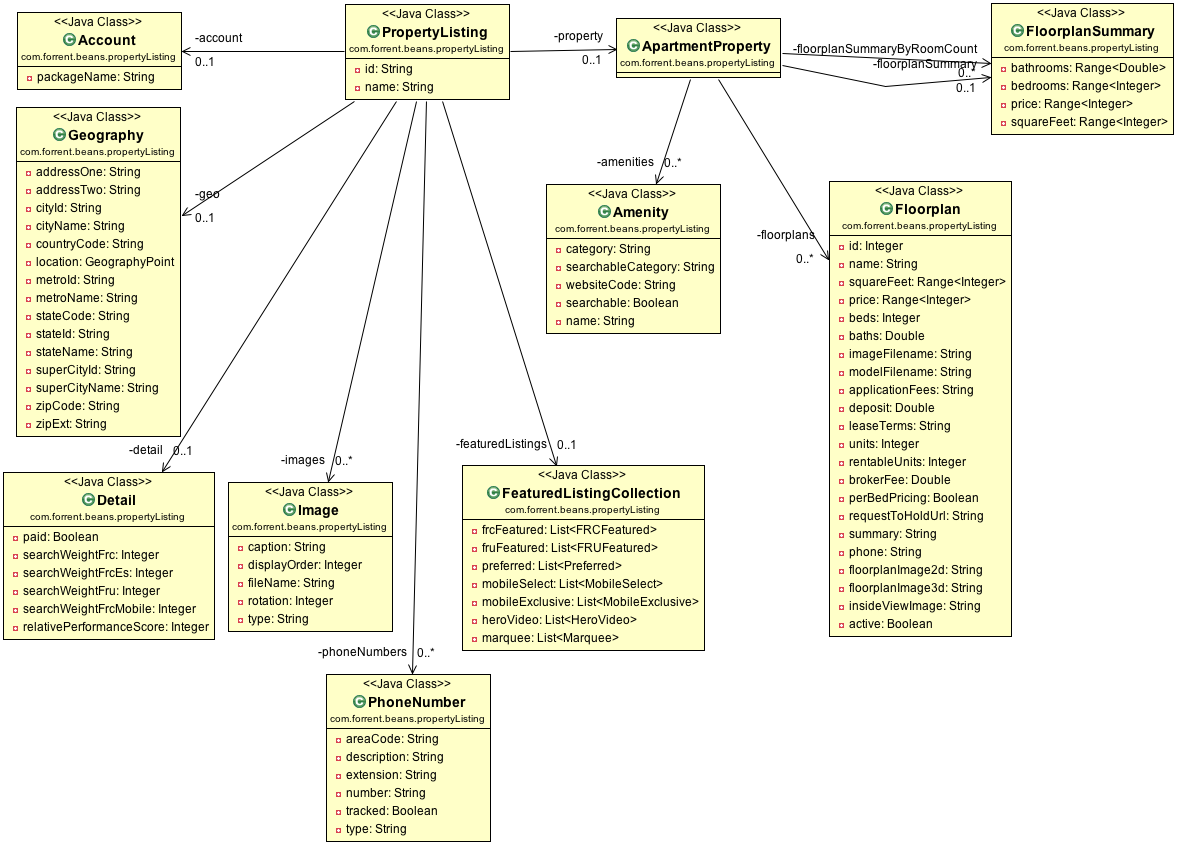
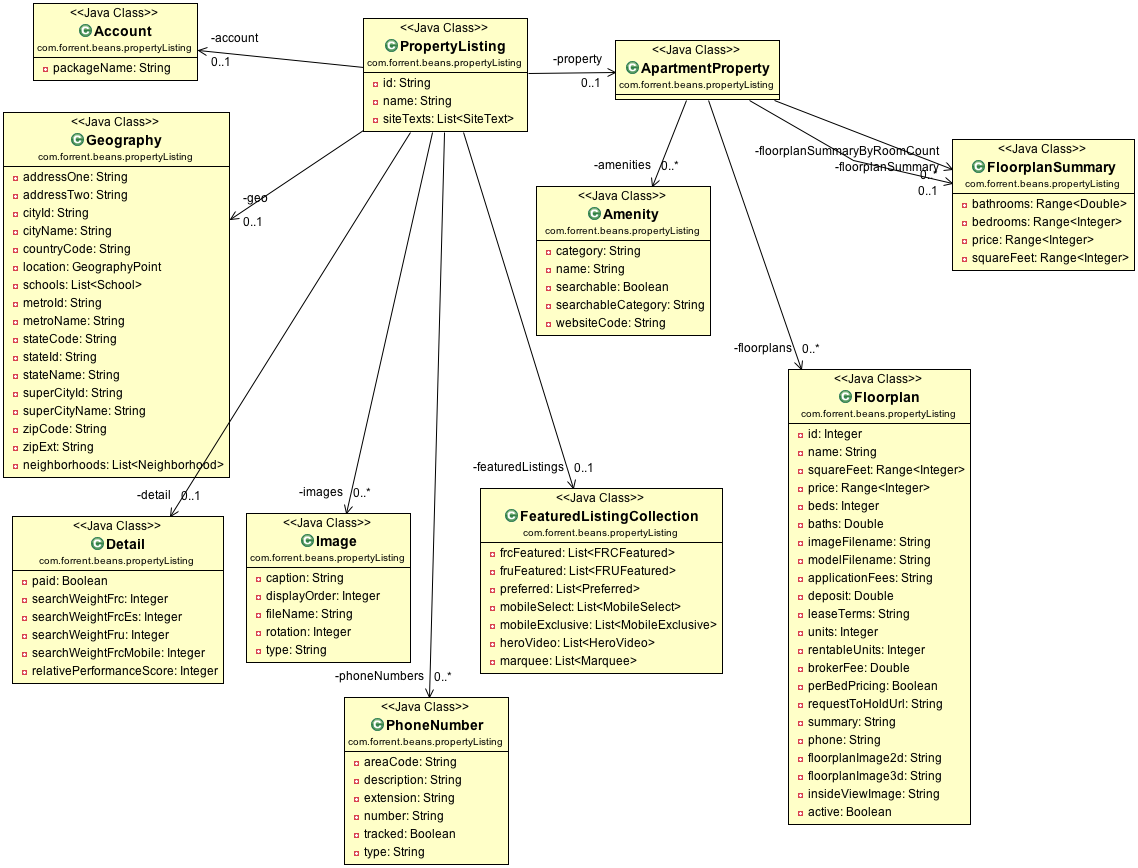
change fp summary to list

diff --git a/src/main/java/com/forrent/beans/propertyListing/Amenity.java b/src/main/java/com/forrent/beans/propertyListing/Amenity.java
@@ -3,50 +3,51 @@ package com.forrent.beans.propertyListing;
 import java.io.Serializable;
 
 @SuppressWarnings("serial")
-public class Amenity implements Serializable {
-	private String category;
-	private String searchableCategory;
-	private String websiteCode;
-	private Boolean searchable;
-	private String name;
-	
-	public String getCategory() {
-		return category;
-	}
-	
-	public void setCategory(final String category) {
-		this.category = category;
-	}
-	
-	public String getSearchableCategory() {
-		return searchableCategory;
-	}
-	
-	public void setSearchableCategory(final String searchableCategory) {
-		this.searchableCategory = searchableCategory;
-	}
-	
-	public String getWebsiteCode() {
-		return websiteCode;
-	}
-	
-	public void setWebsiteCode(final String websiteCode) {
-		this.websiteCode = websiteCode;
-	}
-	
-	public Boolean getSearchable() {
-		return searchable;
-	}
-	
-	public void setSearchable(final Boolean searchable) {
-		this.searchable = searchable;
-	}
-	
-	public String getName() {
-		return name;
-	}
-	
-	public void setName(final String name) {
-		this.name = name;
-	}
+public class Amenity implements Serializable
+{
+    private String category;
+    private String name;
+    private Boolean searchable;
+    private String searchableCategory;
+    private String websiteCode;
+
+    public String getCategory() {
+        return this.category;
+    }
+
+    public String getName() {
+        return this.name;
+    }
+
+    public Boolean getSearchable() {
+        return this.searchable;
+    }
+
+    public String getSearchableCategory() {
+        return this.searchableCategory;
+    }
+
+    public String getWebsiteCode() {
+        return this.websiteCode;
+    }
+
+    public void setCategory(final String category) {
+        this.category = category;
+    }
+
+    public void setName(final String name) {
+        this.name = name;
+    }
+
+    public void setSearchable(final Boolean searchable) {
+        this.searchable = searchable;
+    }
+
+    public void setSearchableCategory(final String searchableCategory) {
+        this.searchableCategory = searchableCategory;
+    }
+
+    public void setWebsiteCode(final String websiteCode) {
+        this.websiteCode = websiteCode;
+    }
 }

diff --git a/src/main/java/com/forrent/beans/propertyListing/ApartmentProperty.java b/src/main/java/com/forrent/beans/propertyListing/ApartmentProperty.java
@@ -2,14 +2,13 @@ package com.forrent.beans.propertyListing;
 
 import java.io.Serializable;
 import java.util.List;
-import java.util.Map;
 
 @SuppressWarnings("serial")
 public class ApartmentProperty implements Serializable
 {
     private List<Floorplan> floorplans;
     private FloorplanSummary floorplanSummary;
-    private Map<Integer, FloorplanSummary> floorplanSummaryByRoomCount;
+    private List<FloorplanSummary> floorplanSummaryByRoomCount;
     private List<Amenity> amenities;
 
     public List<Floorplan> getFloorplans() {
@@ -24,16 +23,16 @@ public class ApartmentProperty implements Serializable
         return this.floorplanSummary;
     }
 
-    public Map<Integer, FloorplanSummary> getFloorplanSummaryByRoomCount() {
+    public List<FloorplanSummary> getFloorplanSummaryByRoomCount() {
         return this.floorplanSummaryByRoomCount;
     }
-    
+
     public List<Amenity> getAmenities() {
-		return amenities;
+        return this.amenities;
     }
-    
+
     public Amenity getAmenities(final Integer index){
-    	return this.amenities.get(index);
+        return this.amenities.get(index);
     }
 
     public void setFloorplans(final List<Floorplan> floorplans) {
@@ -44,10 +43,10 @@ public class ApartmentProperty implements Serializable
         this.floorplanSummary = floorplanSummary;
     }
 
-    public void setFloorplanSummaryByRoomCount(final Map<Integer, FloorplanSummary> floorplanSummaryByRoomCount) {
+    public void setFloorplanSummaryByRoomCount(final List<FloorplanSummary> floorplanSummaryByRoomCount) {
         this.floorplanSummaryByRoomCount = floorplanSummaryByRoomCount;
     }
-    
+
 	public void setAmenities(final List<Amenity> amenities) {
 		this.amenities = amenities;
 	}
